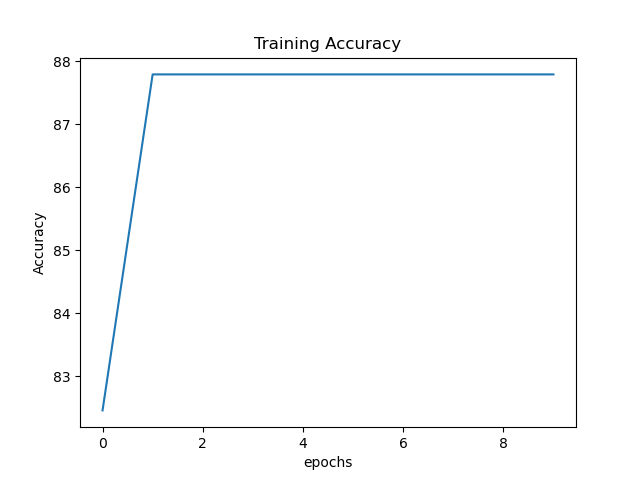
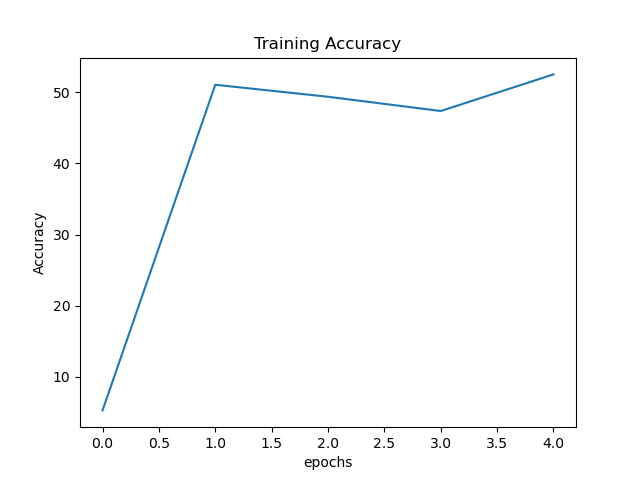
refactor

diff --git a/main.py b/main.py
@@ -4,6 +4,7 @@ Initial training of the data
 
 # First, import the necessary libraries
 from __future__ import print_function, division
+import gc
 import matplotlib.pyplot as plt
 import os
 from PIL import Image
@@ -32,35 +33,31 @@ class ImageDataset(Dataset):
                 on a sample.
         """
         self.transform = transform
-        self.all_data = []
+        self.type_path = type_path
+        self.dalle_length = len(os.listdir('data/' + type_path + '/dalle'))
 
-        # Load in all the DALLE images
-        dalle_imgs = (os.listdir('data/' + type_path + '/dalle'))
-        for image in dalle_imgs:
-            img_name = 'data/' + type_path + '/dalle/' + image
+    def __len__(self):
+        return self.dalle_length * 2
+
+    def __getitem__(self, id):
+        if (id < self.dalle_length):
+            dalle_imgs = (os.listdir('data/' + self.type_path + '/dalle'))
+            image = dalle_imgs[id]
+            img_name = 'data/' + self.type_path + '/dalle/' + image
             torch_img = Image.open(img_name)
-            #torch_img = io.imread(img_name)
             if (self.transform):
                 torch_img = self.transform(torch_img)
             sample = {'image': torch_img, 'label': 1}
-            self.all_data.append(sample)
-
-        # Load in all the non-DALLE images
-        non_dalle_imgs = (os.listdir('data/' + type_path + '/non-dalle'))
-        while (len(self.all_data) < 2 * len(dalle_imgs)):
-            for image in non_dalle_imgs:
-                img_name = 'data/' + type_path + '/non-dalle/' + image
-                torch_img = Image.open(img_name)
-                if (self.transform):
-                    torch_img = self.transform(torch_img)
-                sample = {'image': torch_img, 'label': 0}
-                self.all_data.append(sample)
-
-    def __len__(self):
-        return len(self.all_data)
-
-    def __getitem__(self, id):
-        return (self.all_data[id]["image"], self.all_data[id]["label"])
+            return (sample['image'], sample['label'])
+        else:
+            non_dalle_imgs = (os.listdir('data/' + self.type_path + '/non-dalle'))
+            image = non_dalle_imgs[id - self.dalle_length]
+            img_name = 'data/' + self.type_path + '/non-dalle/' + image
+            torch_img = Image.open(img_name)
+            if (self.transform):
+                torch_img = self.transform(torch_img)
+            sample = {'image': torch_img, 'label': 0}
+            return (sample['image'], sample['label'])
 
 '''
 Create plots for training and test accuracies for several epochs.
@@ -85,6 +82,8 @@ def train_model(transform, batch_size, epochs, weights_path, model_type, network
 
     # Creating the CNN, loss function, and optimizer
     net = network
+    if (torch.cuda.is_available()):
+        net.to('cuda')
     criterion = nn.CrossEntropyLoss()
     optimizer = optim.SGD(net.parameters(), lr=0.001, momentum=0.9)
 
@@ -103,20 +102,22 @@ def train_model(transform, batch_size, epochs, weights_path, model_type, network
         for i, data in enumerate(trainloader, 0):
             # Get batch data and zero parameter gradients
             inputs, labels = data
+            inputs_cuda, labels_cuda = inputs.cuda(), labels.cuda()
             optimizer.zero_grad()
 
             # Forward + Backward Propopagation
-            outputs = net(inputs)
-            loss = criterion(outputs, labels)
+            outputs = net(inputs_cuda)
+            loss = criterion(outputs, labels_cuda)
             loss.backward()
 
             # Optimization Step
             optimizer.step()
 
             # Calculate accuracy and loss
-            _, predicted = torch.max(outputs.data, 1)
+            _, predicted = torch.max(outputs.cpu().data, 1)
             correct += (predicted == labels).float().sum()
-            running_loss += outputs.shape[0] * loss.item()
+            #_, predicted = torch.max(outputs.cpu().data, 1)
+            running_loss += outputs.cpu().shape[0] * loss.item()
         
         # Calculation of the accuracy and loss
         total_loss = running_loss / len(train_data)
@@ -153,6 +154,8 @@ def test_model(transform, weights_path, batch_size, network):
 
     # Loading in a new example of the neural net, and loading in the weights
     net = network
+    if (torch.cuda.is_available()):
+        net.to('cuda')
     net.load_state_dict(torch.load(weights_path))
 
     # Getting accuracy of the data
@@ -162,10 +165,11 @@ def test_model(transform, weights_path, batch_size, network):
     with torch.no_grad():
         for data in testloader:
             images, labels = data
+            images_cuda, labels_cuda = images.cuda(), labels.cuda()
             # calculate outputs by running images through the network
-            outputs = net(images)
+            outputs = net(images_cuda)
             # the class with the highest energy is what we choose as prediction
-            _, predicted = torch.max(outputs.data, 1)
+            _, predicted = torch.max(outputs.cpu().data, 1)
             total += labels.size(0)
             correct += (predicted == labels).sum().item()
     
@@ -185,7 +189,7 @@ def main(model_type):
         'ConvBasic': transforms.Compose(
         [transforms.Grayscale(num_output_channels=3),
         transforms.CenterCrop(250),
-        transforms.ToTensor(),
+         transforms.ToTensor(),
         transforms.Normalize((0.5, 0.5, 0.5), (0.5, 0.5, 0.5))]),
         'TransferLearning': transforms.Compose([
         transforms.Grayscale(num_output_channels=3),
@@ -200,19 +204,20 @@ def main(model_type):
         'ConvBasic': ConvNeuralNet(),
         'TransferLearning': load_pretrained_model()
     }
-
+    model = models[model_type]
+  
     # Batch size
     batch_size = 200
 
     # Training and testing the model
     PATH = 'weights/' + model_type + '.pth'
-    train_model(transform=data_transforms[model_type], batch_size=batch_size, epochs=3, weights_path=PATH, model_type=model_type, network=models[model_type])
-    test_model(data_transforms[model_type], PATH, batch_size, network=models[model_type])
+    train_model(transform=data_transforms[model_type], batch_size=batch_size, epochs=5, weights_path=PATH, model_type=model_type, network=model)
+    test_model(data_transforms[model_type], PATH, batch_size, network=model)
 
 '''
 Run main and then perform everything
 '''
 if __name__ == '__main__':
-    models = ["PlainNet", "ConvBasic", "TransferLearning"]
+    models = ["ConvBasic", "TransferLearning"]
     for model in models:
         main(model_type=model)
